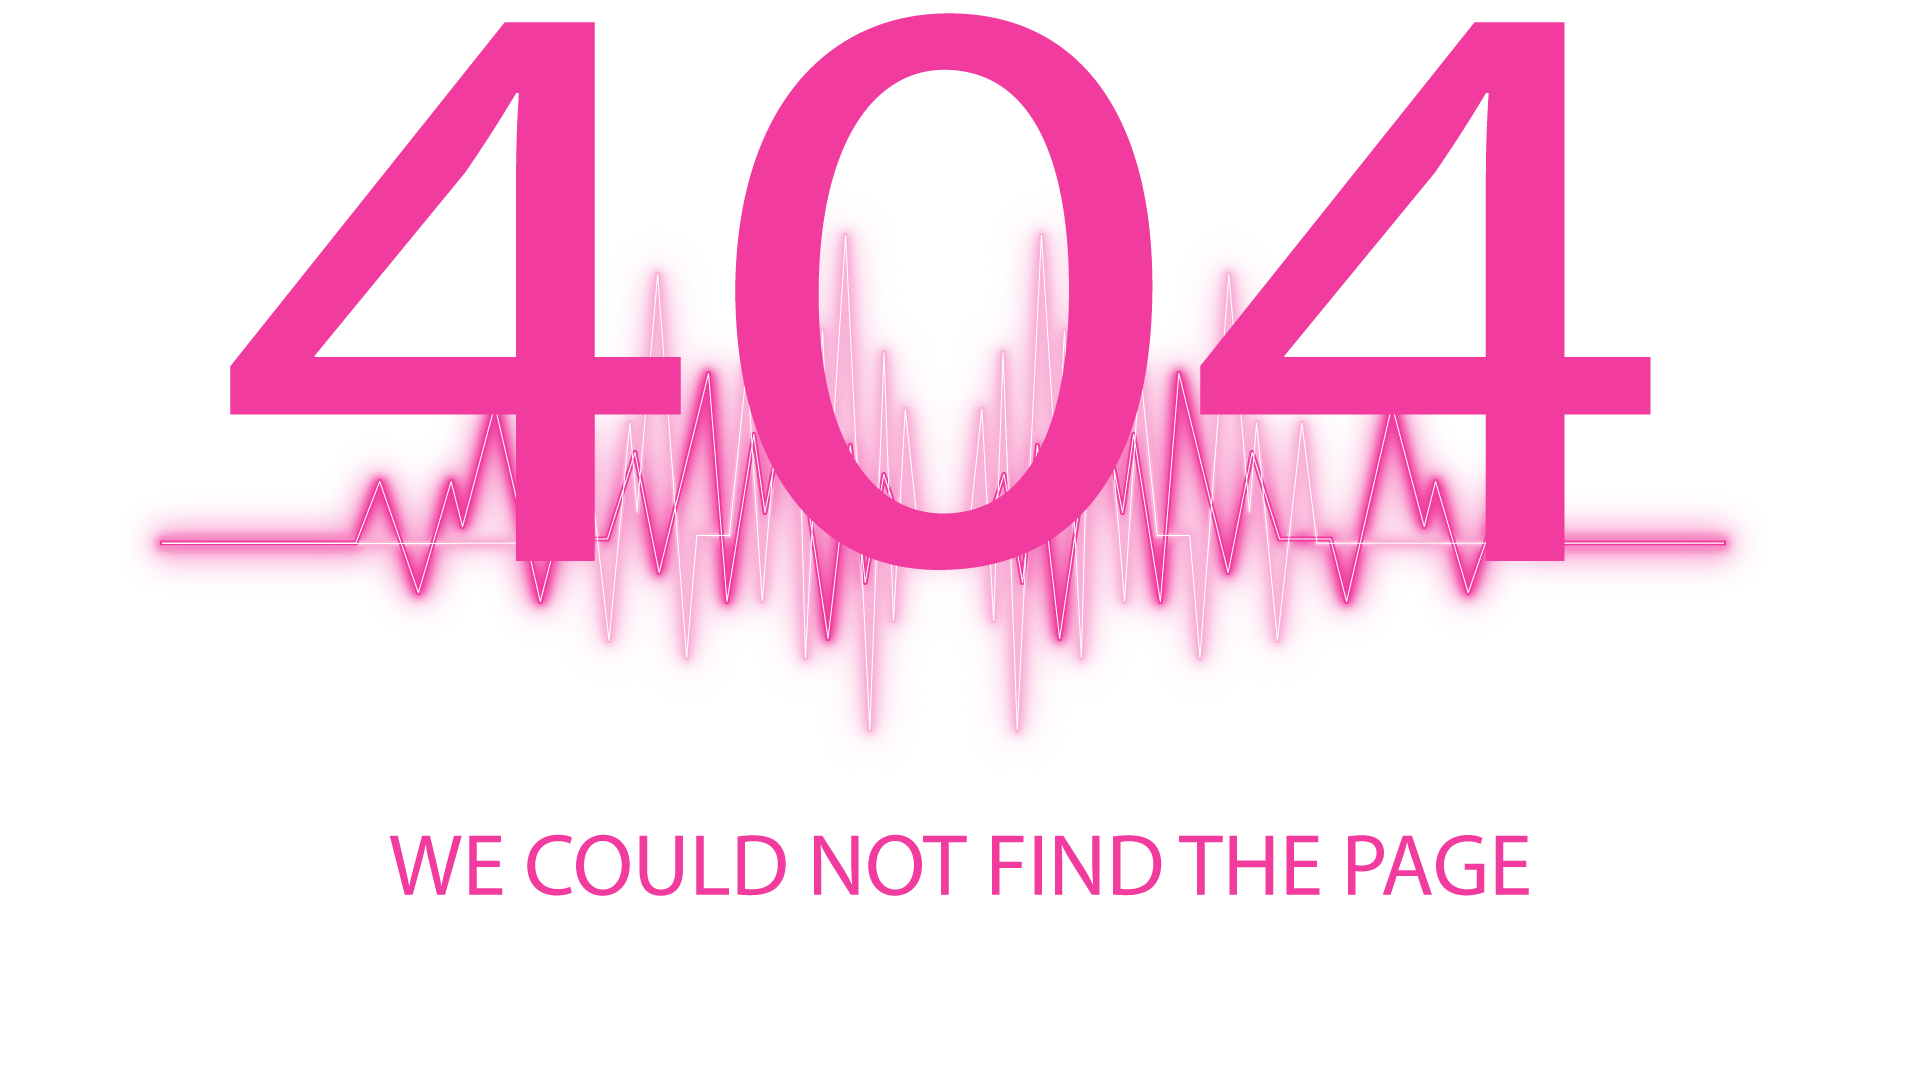
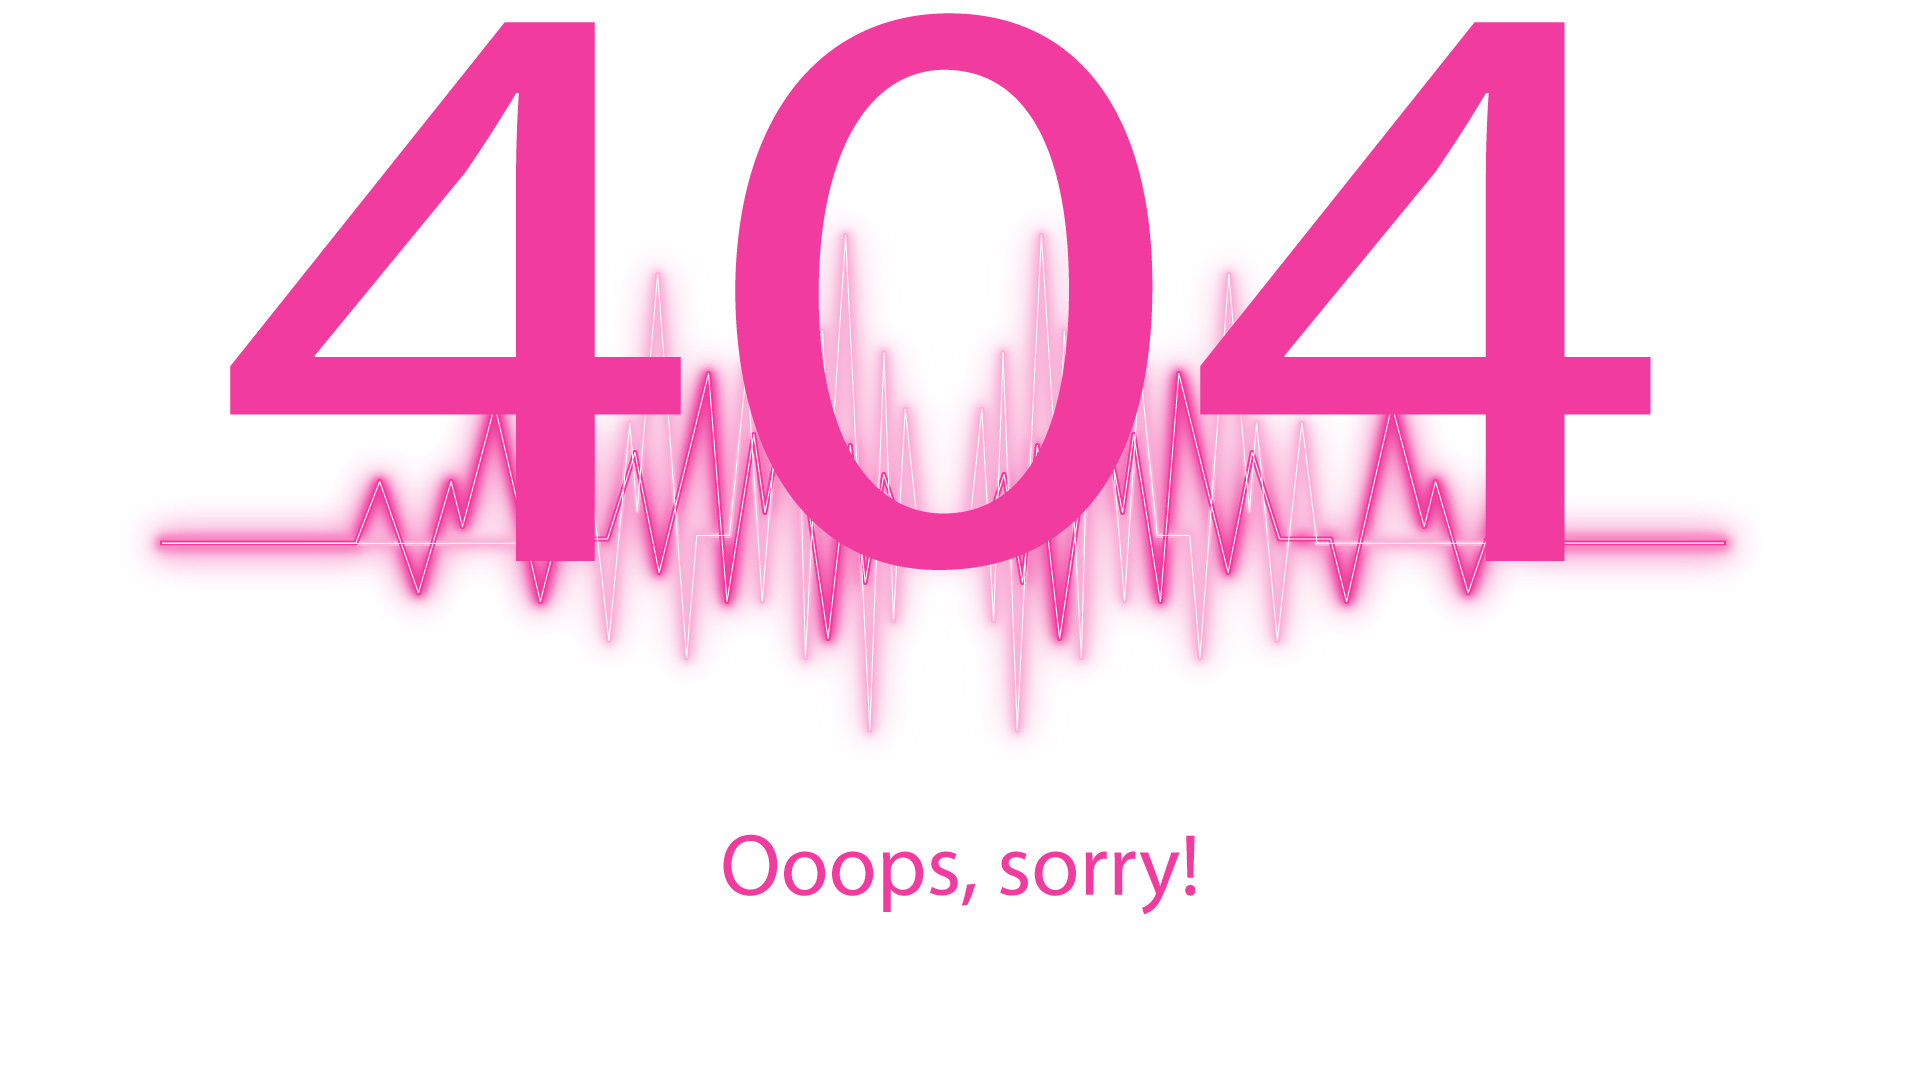
filling the checklist - 404 finished, og image fixed

Changed region(s): [[0.1875, 0.7639, 0.8125, 0.8556]]

diff --git a/public/404.html b/public/404.html
@@ -4,10 +4,9 @@
   <title>The page you were looking for doesn't exist (404)</title>
   <meta name="viewport" content="width=device-width,initial-scale=1">
   <style>
-  .rails-default-error-page {
-    background-color: #10001D;
-    background-image: url(404.png);
-    color: #2E2F30;
+ .rails-default-error-page {
+  background-image: url(404.png);
+    color: #FFF;
     text-align: center;
     font-family: arial, sans-serif;
     margin: 0;
@@ -20,52 +19,61 @@
   }
 
   .rails-default-error-page div.dialog > div {
-    border: 1px solid #CCC;
-    border-right-color: #999;
-    border-left-color: #999;
-    border-bottom-color: #BBB;
-    border-top: #B00100 solid 4px;
-    border-top-left-radius: 9px;
-    border-top-right-radius: 9px;
-    background-color: white;
-    padding: 7px 12% 0;
-    box-shadow: 0 3px 8px rgba(50, 50, 50, 0.17);
+    margin-top: 91%;
+    border-radius: 9px;
+    background-color: rgba(222, 226, 230,0.5);
+    padding: 3%;
+    box-shadow: 0 3px 8px rgb(50 50 50 / 17%)
   }
 
   .rails-default-error-page h1 {
     font-size: 100%;
-    color: #730E15;
+    color: #FFF;
     line-height: 1.5em;
   }
 
   .rails-default-error-page div.dialog > p {
     margin: 0 0 1em;
     padding: 1em;
-    background-color: #F7F7F7;
-    border: 1px solid #CCC;
-    border-right-color: #999;
-    border-left-color: #999;
-    border-bottom-color: #999;
-    border-bottom-left-radius: 4px;
-    border-bottom-right-radius: 4px;
-    border-top-color: #DADADA;
+    background-color: rgba(222, 226, 230,0.5);
     color: #666;
     box-shadow: 0 3px 8px rgba(50, 50, 50, 0.17);
   }
+
+  body{
+    background-repeat: no-repeat;
+    background-size: cover;
+    background-color: #10001D;
+    background-image: url(404.png);
+  }
+
+  .btn {
+    top: 71%;
+    position: absolute;
+    margin-top: 25px;
+    text-decoration: none;
+    margin: 0 0 1em;
+    padding: 1em;
+    background-color: #F13B9E;
+    color: #fffffffc;
+    box-shadow: 0 3px 8px rgb(50 50 50 / 17%);
+    border: none;
+    border-radius: 99px;
+    left: 700px;
+  }
+
+a {
+  color: inherit;
+  text-decoration: inherit;
+  }
+
   </style>
 </head>
 
 <body class="rails-default-error-page">
   <!-- This file lives in public/404.html -->
-  <div class="dialog">
-    <div>
-      <h1>The page you were looking for doesn't exist.</h1>
-      <p>You may have mistyped the address or the page may have moved.</p>
-    </div>
-    <p>If you are the application owner check the logs for more information.</p>
-    <div><a href="/">Back to home</a>
-      <!-- <%= link_to "home", projects_path, class: "btn-direction" %> -->
-    </div>
+  <!--div><button type="button" class="btn btn-primary"><a href="/">Back to home</a></button>-->
+    <div><button class="btn"><a href="/">Back to home</a></button>
   </div>
 </body>
 </html>

diff --git a/public/500.html b/public/500.html
@@ -4,9 +4,8 @@
   <title>We're sorry, but something went wrong (500)</title>
   <meta name="viewport" content="width=device-width,initial-scale=1">
   <style>
-  .rails-default-error-page {
-    background-color: #10001D;
-    background-image: url(500.png);
+ .rails-default-error-page {
+  background-image: url(500.png);
     color: #2E2F30;
     text-align: center;
     font-family: arial, sans-serif;
@@ -20,16 +19,11 @@
   }
 
   .rails-default-error-page div.dialog > div {
-    border: 1px solid #CCC;
-    border-right-color: #999;
-    border-left-color: #999;
-    border-bottom-color: #BBB;
-    border-top: #B00100 solid 4px;
-    border-top-left-radius: 9px;
-    border-top-right-radius: 9px;
-    background-color: white;
-    padding: 7px 12% 0;
-    box-shadow: 0 3px 8px rgba(50, 50, 50, 0.17);
+    margin-top: 91%;
+    border-radius: 9px;
+    background-color: rgba(222, 226, 230,0.5);
+    padding: 3%;
+    box-shadow: 0 3px 8px rgb(50 50 50 / 17%)
   }
 
   .rails-default-error-page h1 {
@@ -41,28 +35,46 @@
   .rails-default-error-page div.dialog > p {
     margin: 0 0 1em;
     padding: 1em;
-    background-color: #F7F7F7;
-    border: 1px solid #CCC;
-    border-right-color: #999;
-    border-left-color: #999;
-    border-bottom-color: #999;
-    border-bottom-left-radius: 4px;
-    border-bottom-right-radius: 4px;
-    border-top-color: #DADADA;
+    background-color: rgba(222, 226, 230,0.5);
+
     color: #666;
     box-shadow: 0 3px 8px rgba(50, 50, 50, 0.17);
   }
+
+  body{
+    background-repeat: no-repeat;
+    background-size: cover;
+    background-color: #10001D;
+    background-image: url(404.png);
+  }
+
+  .btn {
+    top: 71%;
+    position: absolute;
+    margin-top: 25px;
+    text-decoration: none;
+    margin: 0 0 1em;
+    padding: 1em;
+    background-color: #F13B9E;
+    color: #fffffffc;
+    box-shadow: 0 3px 8px rgb(50 50 50 / 17%);
+    border: none;
+    border-radius: 99px;
+    left: 700px;
+  }
+
+a {
+  color: inherit;
+  text-decoration: inherit;
+  }
+
   </style>
 </head>
 
 <body class="rails-default-error-page">
-  <!-- This file lives in public/500.html -->
-  <div class="dialog">
-    <div>
-      <h1>We're sorry, but something went wrong.</h1>
-    </div>
-    <p>If you are the application owner check the logs for more information.</p>
-    <div><a href="/">Back to home</a>
+  <!-- This file lives in public/404.html -->
+  <!--div><button type="button" class="btn btn-primary"><a href="/">Back to home</a></button>-->
+    <div><button class="btn"><a href="/">Back to home</a></button>
   </div>
 </body>
 </html>

diff --git a/public/422.html b/public/422.html
@@ -5,7 +5,6 @@
   <meta name="viewport" content="width=device-width,initial-scale=1">
   <style>
   .rails-default-error-page {
-    background-color: #EFEFEF;
     background-image: url(422.png);
     color: #2E2F30;
     text-align: center;
@@ -20,16 +19,11 @@
   }
 
   .rails-default-error-page div.dialog > div {
-    border: 1px solid #CCC;
-    border-right-color: #999;
-    border-left-color: #999;
-    border-bottom-color: #BBB;
-    border-top: #B00100 solid 4px;
-    border-top-left-radius: 9px;
-    border-top-right-radius: 9px;
-    background-color: white;
-    padding: 7px 12% 0;
-    box-shadow: 0 3px 8px rgba(50, 50, 50, 0.17);
+    margin-top: 91%;
+    border-radius: 9px;
+    background-color: rgba(222, 226, 230,0.5);
+    padding: 3%;
+    box-shadow: 0 3px 8px rgb(50 50 50 / 17%)
   }
 
   .rails-default-error-page h1 {
@@ -41,29 +35,46 @@
   .rails-default-error-page div.dialog > p {
     margin: 0 0 1em;
     padding: 1em;
-    background-color: #F7F7F7;
-    border: 1px solid #CCC;
-    border-right-color: #999;
-    border-left-color: #999;
-    border-bottom-color: #999;
-    border-bottom-left-radius: 4px;
-    border-bottom-right-radius: 4px;
-    border-top-color: #DADADA;
+    background-color: rgba(222, 226, 230,0.5);
+
     color: #666;
     box-shadow: 0 3px 8px rgba(50, 50, 50, 0.17);
   }
+
+  body{
+    background-repeat: no-repeat;
+    background-size: cover;
+    background-color: #10001D;
+    background-image: url(404.png);
+  }
+
+  .btn {
+    top: 71%;
+    position: absolute;
+    margin-top: 25px;
+    text-decoration: none;
+    margin: 0 0 1em;
+    padding: 1em;
+    background-color: #F13B9E;
+    color: #fffffffc;
+    box-shadow: 0 3px 8px rgb(50 50 50 / 17%);
+    border: none;
+    border-radius: 99px;
+    left: 700px;
+  }
+
+a {
+  color: inherit;
+  text-decoration: inherit;
+  }
+
   </style>
 </head>
 
 <body class="rails-default-error-page">
-  <!-- This file lives in public/422.html -->
-  <div class="dialog">
-    <div>
-      <h1>The change you wanted was rejected.</h1>
-      <p>Maybe you tried to change something you didn't have access to.</p>
-    </div>
-    <p>If you are the application owner check the logs for more information.</p>
-    <div><a href="/">Back to home</a>
+  <!-- This file lives in public/404.html -->
+  <!--div><button type="button" class="btn btn-primary"><a href="/">Back to home</a></button>-->
+    <div><button class="btn"><a href="/">Back to home</a></button>
   </div>
 </body>
 </html>
